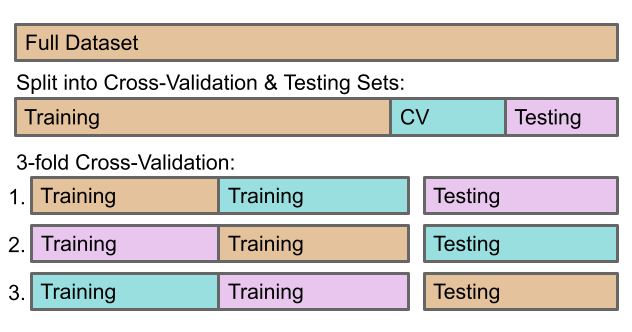
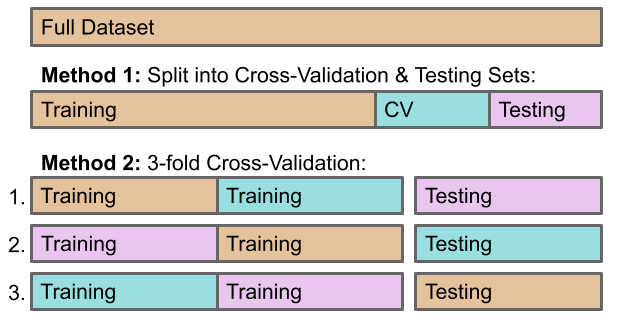
almost last of the edits

diff --git a/document/chapters/litrev/nfoverview.tex b/document/chapters/litrev/nfoverview.tex
@@ -93,8 +93,6 @@ or statistical methods.
 \subsection{Nuclear Forensics as an Inverse Problem}
 \label{sec:inverse}
 
-\todo[inline]{physics discussion goes in this section}
-
 Nuclear forensics is a traditional inverse problem, which has been well
 documented mathematically and applied to a range of scientific disciplines.
 Understanding inverse problem theory can help systematically define the
@@ -138,19 +136,20 @@ This can be done by directly inverting the model for a solution, or it can be
 done from first principles or empirical relationships, which typically requires
 iterative forward modeling that converges upon a solution. These two approaches
 (direct inversion and forward modeling) are compared in some nuclear forensics
-work in Reference \cite{inverse_compare}, \todo[inline]{BL: a little
-elaboration on Ref might be worthwhile} where the authors are discussing the
-discrimination capability of their approach as it applies to plutonium powder
-from reprocessing. While the data set in the paper did not provide enough
-measurements to effectively discriminate, it is interesting to compare both
-inverse problem approaches in the same work.  
-%\todo[inline]{they lead me to believe statistical approaches == direct
-%inversion as a whole. Is that what I'm doing?! I thought direct inversion was
-%a stricter definition.} 
+work in Reference \cite{inverse_compare}, where the authors are discussing the
+discrimination capability of their approaches as it applies to plutonium powder
+from reprocessing.  For forward modeling, they included two different linear
+models to obtain the parameters of interest: a frequentist linear model and a
+Bayesian linear model. For direct inversion, they employed principal components
+regression and partial least squares regression. While the data set in the
+paper did not provide enough measurements to effectively discriminate, it is
+interesting to compare both inverse problem approaches in the same work. The
+authors point out that finding agreement using several methods can be important
+to proving the predictions are robust. 
 
-There is a suite of work approaching the nuclear forensics problem with an
-iterative forward modeling approach using \gls{INDEPTH}, a tool developed at
-Oak Ridge National Laboratory \cite{grogan_sensitivity1, grogan_sensitivity2,
+Another example of iterative forward modeling being used in a nuclear forensics
+context is in a suite of work using \gls{INDEPTH}, a tool developed at Oak
+Ridge National Laboratory \cite{grogan_sensitivity1, grogan_sensitivity2,
 grogan_indepth_2018, weber_2006, weber_2010, weber_2011}.  An initial report on
 the methodology discusses the approach \gls{INDEPTH} uses \cite{weber_2006} and
 a later report discusses \gls{INDEPTH} with more detailed examples
@@ -180,7 +179,57 @@ approximately 1\% error.
 
 The iterative forward modeling approach has much merit, but another approach is
 to use statistical methods to determine relationships between nuclide
-measurements and reactor operation parameters. The background for this is
-introduced next in Section \ref{sec:mlback} and discussed within the context of
-nuclear forensics in Section \ref{sec:stats4nf}.
+measurements and reactor operation parameters. According to Reference
+\cite{inverse_compare} in which forward modeling was compared against direct
+inversion methods, the statistical approach in this work is also considered
+direct inversion. The background for this is introduced next in Section
+\ref{sec:mlback} and is later discussed within the context of nuclear forensics
+in Section \ref{sec:stats4nf}.
 
+\subsection{Nuclide Signatures for Nuclear Forensics of Spent Fuel}
+\label{sec:nucs}
+
+This work focuses on the nuclides created in the fuel (or pre-existing ones
+that remain in the fuel) from its time in a nuclear reactor as the forensic
+signatures of interest. Thus, what follows is a discussion on how some nuclides
+can provide information about reactor type, burnup, \gls{U235} enrichment, and
+time since irradiation.  Since the reactors considered here are common
+commerial reactors that use uranium-oxide fuel, this configuration is the focus
+and not, e.g., mixed-oxide fuel from reprocessing that could be used in a
+\gls{LWR}.
+
+The groups of nuclides tracked fall into two categories: actinides and fission
+products. There are isotopes of both actinides and fission products tracked for
+\gls{SNF} attribution in this work.  Few actinides are naturally occuring
+(e.g., thorium and uranium), and the rest are created in the reactor core
+through neutron captures of other actinides that do not lead to fission.
+Fission products are the fragments of fissile isotopes (they can also be
+created by neutron capture of the fragments, or radioactive decay of either of
+these), which is usually \gls{U235}, but could be ${}^{239}\text{Pu}$ or
+${}^{241}\text{Pu}$ (for uranium-oxide fuel).  The non-uranium and
+non-plutonium actinides are present in much lower quantities than the fission
+products.
+
+In \gls{SNF}, the buildup of actinides is dependent on neutron capture (or the
+lack thereof) of (initially) uranium isotopes and the buildup of fission
+products is dependent on (mostly) \gls{U235} fissions. Thus, the neutron energy
+spectrum in the reactor affects the levels of both actinides and fission
+products.  This allows the distinguishing of different reactor types.  Their
+creation is of course also linked to the initial enrichment and initial amounts
+of various uranium isotopes via the number of fissions that can occur.  The
+burnup of the fuel also impacts the amount of these nuclides, since more are
+created as the fuel remains in the reactor core longer.  The radionuclides with
+long half lives also can contribute to the time since irradiation
+determination. While some nuclides might be a strong contributor to the
+knowledge of one of the parameters, it is more common that they contribute
+information about multiple. 
+
+The buildup of ${}^{239}\text{Pu}$ is an example, where it is formed by the
+neutron capture of ${}^{238}\text{U}$. This is dependent on the neutron energy,
+so gives some indication of reactor type, but it is also dependent on the
+amount of ${}^{238}\text{U}$ in the fuel, which gives some indication of
+initial \gls{U235} enrichment. It also will capture neutrons and make higher
+mass plutonium isotopes or fission the longer the fuel is in the reactor core.
+Therefore, it is also linked to the burnup.
+
+Two isotopes that 

diff --git a/document/chapters/litrev/algs.tex b/document/chapters/litrev/algs.tex
@@ -141,12 +141,6 @@ so is not indicative of a real decision tree.
   \caption[Example of a decision tree]
           {Example of a decision tree process, where maximum tree depth is 
            limited to 3.}
-\todo[inline]{BL: as this is a white box method it would be possible to draw
-physical insight into what is going on. E.g., the Sm being low indicates either
-a low fission cross section or a high Sm cross-section - possibly the most
-thermalized samples. (PHWR or the bottom of a BWR stack?) Pu239 is then burnup
-related giving the PHWR/BWR split. It is less clear at first glance what is
-going on with Am242. AO: address this after prev todo} 
   \label{fig:dtr}
 \end{figure}
 
@@ -154,39 +148,52 @@ In Figure \ref{fig:dtr}, each node has the following information: the splitting
 criterion, Gini impurity value, percentage of samples in the training set in
 the node, a value list (explained below), and the majority class present in the
 node.  In the visualization, the shading of the colors in the tree are bolder
-for there being a higher fraction of a single class.
+for there being a higher fraction of a single class. As a method that produces
+a model that can be understood by humans, the reasoning for the splits is also
+discussed.
 
 The first split is determined to occur at the feature ${}^{149}\text{Sm}$ on
 whether the nuclide measurement is above or below a value of $-1.33$. Note that
 this value is negative because of the scaling process the training set is put
-through, described in Section \ref{sec:statmodel1}.  The majority class at this
-node is \gls{BWR} which is expected since the training set is 72\% \gls{BWR}.
-The values list indicates the fraction of each class in the node, which is
-alphabetically ordered by \texttt{[BWR, PHWR, PWR]}. It is even among the three
-because the class weights are balanced.  This splitting criterion provides a
-Gini impurity score of 0.67, which represents the minimum Gini impurity of all
-the candidate splits, but also indicates there are multiple classes represented
-in this node (again, expected).  It would be 0 if there were only one class in
-the node.  
+through, described in Section \ref{sec:statmodel1}. This is an unsurprising
+split because the creation of ${}^{149}\text{Sm}$ is heavily dependent on the
+neutron energy spectrum and thus helps distinguish reactor types. The majority
+class at this node is \gls{BWR} which is expected since the training set is
+72\% \gls{BWR}.  The values list indicates the fraction of each class in the
+node, which is alphabetically ordered by \texttt{[BWR, PHWR, PWR]}. It is even
+among the three because the class weights are balanced.  This splitting
+criterion provides a Gini impurity score of 0.67, which represents the minimum
+Gini impurity of all the candidate splits, but also indicates there are
+multiple classes represented in this node (again, expected).  It would be 0 if
+there were only one class in the node.  
 
 The next level of the decision tree in Figure \ref{fig:dtr} has two nodes. The
 top node has a splitting criterion of whether ${}^{239}\text{Pu}$ is above or
-below a value of $-0.91$.  This node contains a majority of the \gls{PHWR}
-class, but also a fraction of 0.08 of the \gls{BWR} class.  Even though the
-\gls{PHWR} class is only 1.5\% of the training set (see Section
-\ref{sec:training1}), this node has 7.9\% of the training set samples.  The
-lower node has a splitting criterion of whether ${}^{242m}\text{Am}$ is above
-or below 0.68.  The remaining 92.1\% of the training set is in this node, and
-there is only a slight majority of the (balanced) \gls{PWR} class, which is why
-the shading is nearly white. The Gini impurity for the top node is 0.15. This
-is much lower than the Gini impurity of 0.5 for the bottom node, which is more
-evenly split between two classes. The next level split for the top node has
-fractions of 0.97 \gls{PHWR} and 1.0 \gls{BWR} in the next two nodes, with Gini
-impurities of 0.06 and 0.0, respectively. This is a rapid approach to zero
-considering the size of the training set and number of features. The next level
-split for the bottom node made modest improvements over the Gini impurity of
-0.5, and would need to go much deeper to properly classify \gls{PWR} versus
-\gls{BWR}.
+below a value of $-0.91$.  This is also an unsurprising choice for the decision
+tree because its creation and destruction is heavily dependent on the burnup,
+since \glspl{PHWR} have higher ${}^{239}\text{Pu}$ due to their lower burnup.
+This node contains a majority of the \gls{PHWR} class, but also a fraction of
+0.08 of the \gls{BWR} class.  Even though the \gls{PHWR} class is only 1.5\% of
+the training set (see Section \ref{sec:training1}), this node has 7.9\% of the
+training set samples.  The next level split for the top node has fractions of
+0.97 \gls{PHWR} and 1.0 \gls{BWR} in the next two nodes, with Gini impurities
+of 0.06 and 0.0, respectively. This is a rapid approach to zero considering the
+size of the training set and number of features. 
+
+The lower node has a splitting criterion of whether ${}^{242m}\text{Am}$ is
+above or below 0.68.  This one is less obvious of a choice, but is in the decay
+chain of ${}^{241}\text{Pu}$ (if it does not fission), which is created by a
+series of neutron captures.  This links ${}^{242m}\text{Am}$ to a dependence on
+the neutron energy spectrum and therefore makes it somewhat capable of
+distinguishing reactor type.  The remaining 92.1\% of the training set is in
+this node, and there is only a slight majority of the (balanced) \gls{PWR}
+class, which is why the shading is nearly white. The Gini impurity for the top
+node is 0.15.  This is much lower than the Gini impurity of 0.5 for the bottom
+node, which is more evenly split between two classes.  The next level split for
+the bottom node made modest improvements over the Gini impurity of 0.5, and
+would need to go much deeper to properly classify \gls{PWR} versus \gls{BWR}.
+This suggests that ${}^{242m}\text{Am}$ is only a moderate reactor type
+indicator.
 
 \subsubsection{Maximum Log-Likelihood Calculations}
 

diff --git a/document/chapters/intro/intro.tex b/document/chapters/intro/intro.tex
@@ -36,18 +36,26 @@ These approaches within nuclear forensics can vary based on whether the
 material being collected is pre-detonation (e.g., \gls{SNF}) or post-detonation
 (e.g., bomb debris). 
 
-In the pre-detonation realm, this project focuses on statistical methods to
-model the production history of a nuclear material using measurements of
-nuclides present in \gls{SNF}.  The \gls{SNF} is identified in this work by
-focusing on four characteristics in particular that can potentially provide
-material attribution: reactor type, burnup, initial \gls{U235} enrichment, and
-time since fuel irradiation. 
+As mentioned, nuclear forensics is deployed as a response to a nuclear
+incident. Given that the incident could vary from a weapon detonation to an
+unknown type of nuclear material being found outside of regulatory control,
+there are many approaches that a nuclear forensics investigation could take.
+The incident type that this work addresses is that of interception of intact
+\gls{SNF}, perhaps being transported or smuggled into a country. The design of
+the study reflects this scenario, where there is a small amount of spent fuel
+from a common commercial reactor. This could be on its way to being reprocessed
+to extract the plutonium (in certain cases where there is enough fissile
+material), or it could be intended for a "dirty bomb", or radiological
+dispersal device. 
+
+This project uses statistical methods to model the production history of a
+nuclear material using measurements of nuclides present in \gls{SNF}. The
+\gls{SNF} is identified in this work by focusing on four characteristics in
+particular that can potentially provide material attribution: reactor type,
+burnup, initial \gls{U235} enrichment, and time since fuel irradiation. 
 \begin{enumerate}
   \item The \textbf{reactor type} is classified as one of the three most common
         types of commercial power reactors: \gls{PWR}, \gls{BWR}, or \gls{PHWR}.
-        These three are chosen in order to simplify the nature of this 
-        exploratory study, and there are several reactor types excluded.
-        \todo{Paul check. BL wanted a little more context here}
   \item The \textbf{burnup} describes how much energy was produced by the fuel,
         taking on the units megawatt-days (or gigawatt-days) per metric 
         ton of heavy metal (or initial uranium); it is referred to in this work 
@@ -59,6 +67,19 @@ time since fuel irradiation.
         fuel has been out of the reactor core, and is measured usually in $days$,
         but sometimes $years$. It may also be referred to as cooling time. 
 \end{enumerate}
+
+While the methodology in this exploratory work is limited to the scenario where
+the \gls{SNF} in question is from three chosen types of common commercial power
+reactors (\glspl{PWR}, \glspl{BWR}, \glspl{PHWR}), it could be expanded or
+applied to other scenarios. In the pre-detonation realm with \gls{SNF}, there
+are several commercial reactor types not considered, there are small modular
+reactors in development that would be of interest, and there is also the
+exclusion of research reactors. Moving beyond \gls{SNF}, other nuclear
+materials are sometimes of interest, e.g., \gls{UOC} or highly enriched
+non-irradiated uranium. This approach could also be applied to post-detonation
+as well, perhaps using measured swipe samples from a weapons detonation to
+answer questions about the where the nuclear material in the weapon may have
+come from. 
 
 \section{Motivation}
 \label{sec:motivation}

diff --git a/document/chapters/concl/concl.tex b/document/chapters/concl/concl.tex
@@ -170,15 +170,14 @@ Despite many of the nuclides that are included in the short and long energy
 windows lists having known poor simulation quality \cite{pwr_benchmark_2010,
 skutnik_2021}, the burnup prediction clearly had enough information to do well.
 The poor enrichment prediction is likely because the detected radionuclides are
-not enrichment indicators, although ${}^{152}\textit{Eu}$ is and should be
-included in the long energy windows list.\todo{152Eu was in top feature impt
-list} The time steps in the training set being about $100\:days$ was a limiting
-factor in its quality of prediction; many of the \gls{MAE} values were around
-this level in the second experiment. 
+not enrichment indicators, although ${}^{152}\text{Eu}$ is and should be
+included in the long energy windows list. The time steps in the training set
+being about $100\:days$ was a limiting factor in its quality of prediction;
+many of the \gls{MAE} values were around this level in the second experiment. 
 
-\todo[inline]{I think that co-detection of enrichment and burnup typically
-requires a neutron count as well as a gamma scan so it is unsurprising that
-gamma alone is struggling.}
+\todo[inline]{Paul, is this OK to not address?  BL: I think that co-detection
+of enrichment and burnup typically requires a neutron count as well as a gamma
+scan so it is unsurprising that gamma alone is struggling.}
 
 There is a clear leader throughout all of the results in terms of being a
 consistent best performer: the \gls{MLL} calculations. The reason it can
@@ -355,12 +354,14 @@ Figure \ref{fig:knownrxtr} shows that for some combinations of prediction label
 and algorithm, there is an improvement in the regression performance for the
 \gls{PHWR} class, and less so for some \gls{PWR} cases.  (There was no
 significant improvement seen for any reactor type/regression case combination
-for the \gls{MLL} calculations.) Given the majority of the database is
-comprised of \gls{BWR} entries, the improvement is not surprising; it is the
-lack of improvement in the other cases that is unexpected. Either way, it makes
-sense to first determine the reactor type before performing the other
-predictions if not using the \gls{MLL} approach. One example of this being
-done is in Reference \cite{serial_ml}.
+for the \gls{MLL} calculations.) It is important to attribute \gls{PHWR} fuels,
+since plutonium builds up faster in these reactors and so they pose a larger
+risk than other typical commerial \gls{SNF}.  Given the majority of the
+database is comprised of \gls{BWR} entries, the improvement is not surprising;
+it is the lack of improvement in the other cases that is unexpected. Either
+way, it makes sense to first determine the reactor type before performing the
+other predictions if not using the \gls{MLL} approach. One example of this
+being done is in Reference \cite{serial_ml}.
 
 Performing regression after first classifying the reactor type means much care
 should be taken to have a robust reactor type classification algorithm. One way

diff --git a/document/chapters/exp1/sfcompo.tex b/document/chapters/exp1/sfcompo.tex
@@ -299,18 +299,17 @@ test database) for the \textit{k}-nearest neighbors, decision trees, and
   \label{fig:sfcoburn}
 \end{figure}
 
-\todo[inline]{BL: PHWR will build up Pu much more quickly so failure to detect
-PHWR will cause problems.} The large ranges seen for the mean-imputed nulls
-test set in Figure \ref{fig:burnimppct} are because of large overpredictions of
-low burnups ($< 10\:GWd/MTU$), since a small number in the denominator will
-yield a high percentage error. A large subset of the low burnup cases are
-\gls{PHWR}s.  Their burnups are also unlikely to be predicted well because of
-the inability of \gls{PHWR} reactors to be represented accurately with this
-methodology.  Removing the \gls{PHWR} reactors from the results removes all
-outliers with percentage errors larger than 1750\%. That is still a very high
-relative error, but there are other low burnup cases in the database.  Removing
-\gls{PHWR}s does not significantly alter the zero-imputed nulls results in
-Figure \ref{fig:burn0pct}.
+The large ranges seen for the mean-imputed nulls test set in Figure
+\ref{fig:burnimppct} are because of large overpredictions of low burnups ($<
+10\:GWd/MTU$), since a small number in the denominator will yield a high
+percentage error. A large subset of the low burnup cases are \gls{PHWR}s.
+Their burnups are also unlikely to be predicted well because of the inability
+of \gls{PHWR} reactors to be represented accurately with this methodology.
+Removing the \gls{PHWR} reactors from the results removes all outliers with
+percentage errors larger than 1750\%. That is still a very high relative error,
+but there are other low burnup cases in the database.  Removing \gls{PHWR}s
+does not significantly alter the zero-imputed nulls results in Figure
+\ref{fig:burn0pct}.
 
 The range of percentage errors for the zero-imputed nulls test set in Figure
 \ref{fig:burn0pct} tells a different story. There is only one case (an

diff --git a/document/chapters/exp2/eval_rxtr.tex b/document/chapters/exp2/eval_rxtr.tex
@@ -28,15 +28,15 @@ information, and it is interesting that this pattern did not emerge with the
 detectors' performances in Figure \ref{fig:rxtr}.  Instead, for the auto and
 short energy windows lists, the \textit{k}-nearest neighbors performance is
 below \gls{MLL} calculations and above decision trees (except in the two unique
-cases in the auto energy windows list).  For the lab-based and portable
-\gls{HPGe}s, \textit{k}-nearest neighbors has the worst performance among all
-three algorithms for the auto and long lists, and drastically so for the two
-unique auto list cases of extremely poor performance.  In terms of the
-baseline, there is only one instance of \textit{k}-nearest neighbors being
-above it: the lab-based \gls{HPGe} with the short energy windows list.
-\todo[inline]{I find this para confusing. It seems to start by saying it is
-interesting that kNN isnt doing as bad then end by saying that kNN is doing
-terribly}
+cases in the auto energy windows list).  This broader trend does not hold for
+some specific cases, however.  For the lab-based and portable \gls{HPGe}s,
+\textit{k}-nearest neighbors has the worst performance among all three
+algorithms for the auto and long lists, and drastically so for the two unique
+auto list cases of extremely poor performance. In terms of the baseline, there
+is one instance of \textit{k}-nearest neighbors being above it: the lab-based
+\gls{HPGe} with the short energy windows list. This is the only instance of a
+scikit-learn algorithm out-performing the baseline for this entire set of
+results.
 
 There are no detector-based training sets at all for which decision trees
 performs above the baseline. For the last four detectors on the horizontal axis

diff --git a/document/chapters/exp1/evaluation.tex b/document/chapters/exp1/evaluation.tex
@@ -113,9 +113,9 @@ decision trees, and 0.5\% for \gls{MLL} calculations.  There are zero
 misclassified \gls{PHWR} cases and zero \gls{LWR} cases misclassified as
 \gls{PHWR}; the value of 0.000 to three decimals fraction here represents a
 real zero-count, but this is not necessarily the case for the other sets of
-confusion matrices.  The \gls{PWR}/\gls{BWR} distinction \todo{BL: explain or cite}
-is known to be a difficult problem, so the correct \gls{PHWR} classifications
-are not particularly notable for this discussion. 
+confusion matrices.  The \gls{PWR}/\gls{BWR} distinction is known to be a
+difficult problem\cite{pu_discrimination}, so the correct \gls{PHWR}
+classifications are not particularly notable for this discussion. 
 
 The middle panel of Figure \ref{fig:cm_nuc29} shows confusion matrices for the
 three algorithms for the 10\% random error case. In Figure \ref{fig:randrxtr},
@@ -224,7 +224,7 @@ set error for \gls{MAPE} and \gls{MAE}, but at 10\% training set error for the
            absolute errors with respect to uniform/random error applied to the 
            nuclide mass measurements in the training set.}
   \label{fig:randenri}
-  \todo[inline]{double check these figures aren't orphaning any text}
+  \todo[inline]{SAVE FOR LAST: double check these figures aren't orphaning any text}
 \end{figure}  
 
 Figure \ref{fig:randenri} demonstrates the \gls{U235} enrichment prediction

diff --git a/document/chapters/exp2/eval_reg.tex b/document/chapters/exp2/eval_reg.tex
@@ -282,8 +282,8 @@ large standard deviations in Figure \ref{fig:enri}. Again, the standard
 deviations are so large that it is difficult to conclusively define a trend.
 
 The overall flatness of the boxplots and far-below-baseline performance
-indicates that the features needed to determine enrichment are not measured by
-and of the detector configurations. 
+indicates that the features needed to determine enrichment are not
+well-measured by any of the detector configurations. 
 
 \subsubsection{Time Since Irradiation Regression}
 
@@ -421,5 +421,5 @@ a trend.
 
 The overall flatness of the boxplots and close-to-baseline performance
 indicates that the features needed to determine time since irradiation are
-close to adequately measured by most of the detector configurations. \todo{check last sentence for each case} 
+close to adequately measured by most of the detector configurations.
 

diff --git a/document/chapters/litrev/errs.tex b/document/chapters/litrev/errs.tex
@@ -121,9 +121,6 @@ small testing set.
   \caption[Illustration of cross validation]
           {Illustration of two ways of performing \gls{CV}: a one-time split, 
            or \textit{k}-fold \gls{CV}.}
-   \todo[inline]{BL: This diagram is confusing because testing, CV and training are 
-   different sizes at the top and smaller sizes below. You might want to draw this 
-   diagram with k=5 and then the CV and testing bars can both be 20\% in top pic}
   \label{fig:cverror}
 \end{figure}
 
